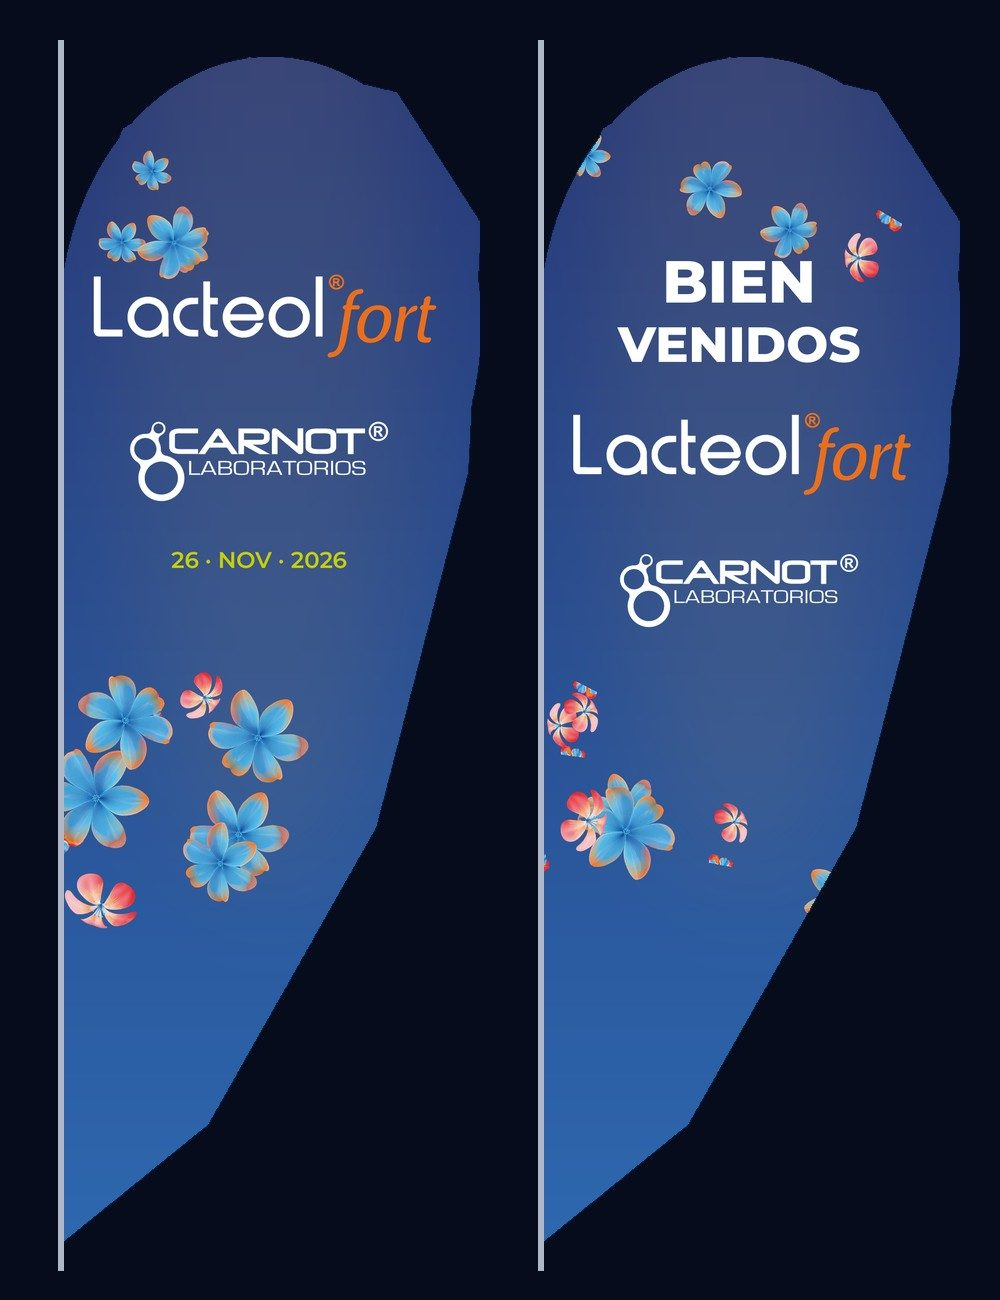
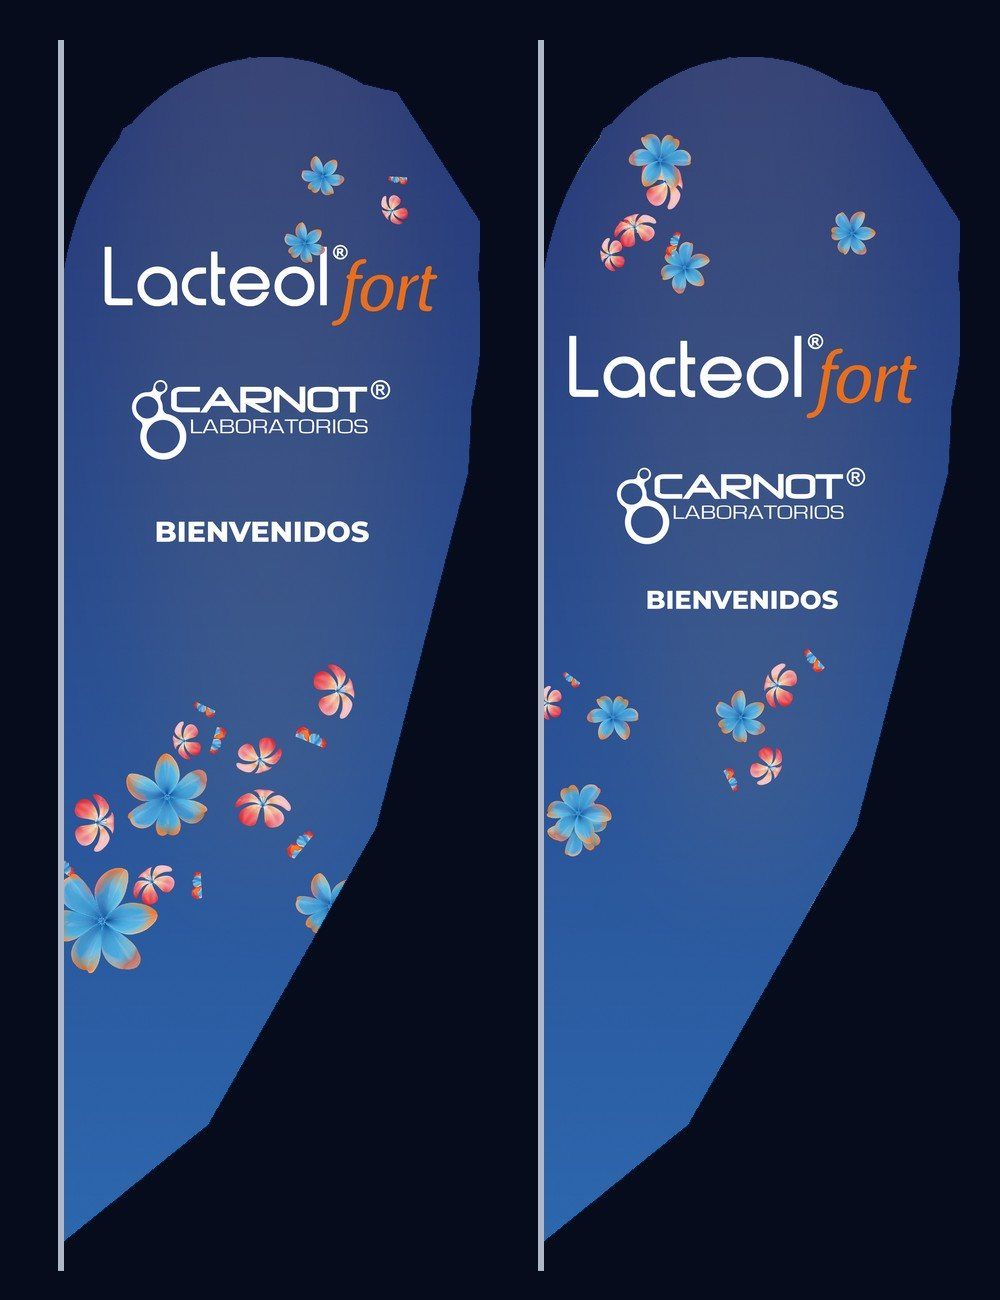
Producción: flags finales A y B
Claude-Session: https://claude.ai/code/session_01PuSqwAtRtqZeajJbutg3qj

diff --git a/produccion/index.html b/produccion/index.html
@@ -130,11 +130,11 @@ const S=[
   list:['Revisión 13 nov (tarde) · Flag 2 en tres opciones; lona aprobada; valet opcional; mostrador en una sola tira; roll-ups de 800 × 2000; LED azul en el booth; sin viniles en muros, solo electrostáticos en espejos; Infinity y Reflective con los cuatro mensajes por break; Dragon con cajas, .obj y Alembic.','Junta de producción 13 nov · Calle: la cortina de servicio se cubre con lona con ojillos colgada desde arriba; preguntar a Vero por el cajón de valet.','Recepción: el mostrador se forra con lona sobre bastidor delgado; barrita con LED azul al frente.','Foyer: mamparas de 3 y 4 m a 1.90 m de alto, en lona mate.','Bar: arañas de 3.00 × 2.40 m en tela, del inventario de Polar; el pasillo es de doble altura.','Escenario: 5 × 2 m a 0.80 m, faldón, alfombra negra o charol, escalera a cada lado con LED. Podio por definir con Pam.','Sillones: 6 en total (4 escenario, 2 foyer) más las salas de la Room 1, del mismo modelo y en colores de campaña.','Room 1: sin luz propia; luz indirecta de inventario, alfombra por comprar, flores, jardineras y aromaterapia.']},
  {id:'calle',grp:'Recorrido de llegada',t:'Calle',eyebrow:'0 · Llegada 14:00 · salida 22:40',h:'Flags, manta, alfombra y valet',
   p:'La fachada de InSpace en Pestalozzi 35. Dos flags tipo gota a los lados de la puerta peatonal, alfombra solo sobre la banqueta y valet en la calle. De noche se suma iluminación para la salida.',
-  carnot:'Lacteol fort más grande en la entrada. Flags sin PULSO (12 nov): solo Lacteol fort y Carnot. Vía pública: visto bueno de regulatorio y, si aplica, COFEPRIS.',
-  img:[['calle_dia','De día, llegada'],['calle_noche','De noche, salida'],['flags','Flags v3 (flag 1 aprobado)'],['flag2_opciones','Flag 2 · tres opciones: logos protagonistas y «Bienvenidos» chico']],
+  carnot:'Lacteol fort más grande en la entrada. Flags sin PULSO: Lacteol fort y Carnot protagonistas, «Bienvenidos» chico (13 nov: opciones A y B). Vía pública: visto bueno de regulatorio y, si aplica, COFEPRIS.',
+  img:[['calle_dia','De día, llegada'],['calle_noche','De noche, salida'],['flags','Flags finales: A a la izquierda de la puerta, B a la derecha']],
   items:[
-   ['flag1','imp','Flag gota 1 · Lacteol fort, Carnot y fecha','Vela ≈ 0.85 × 2.40 m, poliéster sublimado','2026-11-12_PULSO_Flag_gota_1_LacteolFort_Carnot_v3.png',AA+'Artes_impresion','Exportar a resolución de salida con logos en vector; plantilla del proveedor.'],
-   ['flag2','imp','Flag gota 2 · elegir opción A, B o C','Vela ≈ 0.85 × 2.40 m, poliéster sublimado','2026-11-13_PULSO_Flag_gota_2_opciones_ABC.jpg',AA+'Artes_impresion','Elegir opción; «Bienvenidos» en un solo renglón, chico; luego exportar final.'],
+   ['flag1','imp','Flag A · logos arriba, «Bienvenidos» abajo · final','Vela 850 × 2400 mm, poliéster sublimado · archivo a 3 px/mm (2550 × 7200 px) en PNG y PDF · logos vectoriales','2026-11-13_PULSO_Flag_gota_A_850x2400mm_final.png / .pdf',AA+'Artes_impresion','Ajustar a la plantilla de suaje del proveedor antes de imprimir.'],
+   ['flag2','imp','Flag B · logos al centro entre flores · final','Vela 850 × 2400 mm, poliéster sublimado · archivo a 3 px/mm (2550 × 7200 px) en PNG y PDF · logos vectoriales','2026-11-13_PULSO_Flag_gota_B_850x2400mm_final.png / .pdf',AA+'Artes_impresion','Ajustar a la plantilla de suaje del proveedor antes de imprimir.'],
    ['manta','imp','Lona de fachada sobre la puerta de servicio · aprobada','≈ 4.10 × 4.60 m, lona con ojillos perimetrales, colgada desde arriba (azotea o tubos)','2026-11-05_Manta_fachada_v2_Lacteolfort_grande.png',AA+'Artes_impresion','Definir ojillos y fijación; Beto revisa en sitio; medir; permiso de InSpace y regulatorio.'],
    ['alfombra','prd','Alfombra azul rey','1.00 m de ancho, de la orilla de la banqueta a la puerta','Proveedor','—','Medir largo en sitio.'],
    ['valet','imp','Módulo de valet (opcional)','0.60 × 0.45 × 1.10 m','Por crear',AA+'Artes_impresion','Opcional. Preguntar a Vero si InSpace tiene cajón de valet.'],
@@ -249,7 +249,7 @@ const S=[
   list:['Carnot: logos de Lacteol fort y Carnot en vector.','Carnot: fotos de las doctoras Mendoza, Montijo y Abreu.','Carnot: validar frase de umbral, frases de temporada, opción de sillones y referencias de mostrador, booth y Reflective.','Carnot: comentarios del video de mensajes clave.','InSpace: medidas del bar, del pasillo y de la manta; puertas de la Sala 360; permisos de vinil y luz.','InSpace: confirmar fecha de ensayo (18 o 25 de noviembre).','Proveedor de arañas: tela, rebase y si son rectas.','Banquetero: medida de las mesas.']}
 ];
 const F='https://drive.google.com/file/d/', D='https://drive.google.com/drive/folders/';
-const LINKS={flag1:'17MEsnzbIJ6E6ZlCb2p0X72LrFM-OhX4v',manta:'14NyYQf5qpl7F_SeDTHooQmEjCUzAHpnd',mostrador:'1lSvWsNZODBNT0Efzc46qj-MkxfpVk91I',rollup1:'1G7NS-7y2K0Kmm15K9kG4wZ3-wc6YTBov',rollup2:'10p5Rf_FjevkCicMD2Eneh2mHBN8orZV6',booth_f:'1lDApNgQo_5mNeWqZJIZ0oIf0Gv-nE73k',booth_l:'1RqVt21UxOKfctfdFiSVCuXFutI9ajZk0',plano360:'1xWhzHH5gyj8fE690OwOFDtyMxLBpPNRr',plantilla:'1vdxLus8AS9AhdZpS9mFr2GY3mx3UoTVJ',bar_med:'1R8mOJajYf3G_h-gMuPl44pINm5OXWYfs'};
+const LINKS={manta:'14NyYQf5qpl7F_SeDTHooQmEjCUzAHpnd',mostrador:'1lSvWsNZODBNT0Efzc46qj-MkxfpVk91I',rollup1:'1G7NS-7y2K0Kmm15K9kG4wZ3-wc6YTBov',rollup2:'10p5Rf_FjevkCicMD2Eneh2mHBN8orZV6',booth_f:'1lDApNgQo_5mNeWqZJIZ0oIf0Gv-nE73k',booth_l:'1RqVt21UxOKfctfdFiSVCuXFutI9ajZk0',plano360:'1xWhzHH5gyj8fE690OwOFDtyMxLBpPNRr',plantilla:'1vdxLus8AS9AhdZpS9mFr2GY3mx3UoTVJ',bar_med:'1R8mOJajYf3G_h-gMuPl44pINm5OXWYfs'};
 const FOLD={'Artes_impresion':'1Yow3FSNp5s6e7c_jELAd1-gwpsu0or7S','Cuadros_clave':'16ft4-qz3dZuyV4-gFT4-Kadda6JMV_N2','Planos':'1RAyUk3uPvVq-WFdfLdak-d1g9WTrDDpH','Pantalla_bienvenida':'1tkfxB55Cm4oa163xiDfAXI-h9p1dEID-','10_Plantilla_ponentes':'1xuwoGx7s4PA-XZQ6IgvAHx_A_kxw2JcY','18_Semblanzas_animadas':'15CmAix-DhXWSJO4_Pv3JghhWW3f5FBh0','09_Biblia_visual_PULSO':'16GPkvyhAjVYl4Lsh_O_uoK_kc4-OEAGH','12_Codigo_PULSO_Juego':'1let6-gWC3vSOXnlH3z4IxXOCpfIH_6sj','00_Logos':'1ZwAEKB-XJiTnCIFbnhoC3vlqynA7b5Pk','Animaciones':'1Pi4zyxauPNfZmnoASO6m1ShCmK8vow5N'};
 const TIPO={imp:'Impresión',mob:'Mobiliario',pan:'Pantalla',prd:'Producción'};
 const ITEMS=S.flatMap(s=>s.items.map(i=>({sec:s.id,id:i[0]})));
